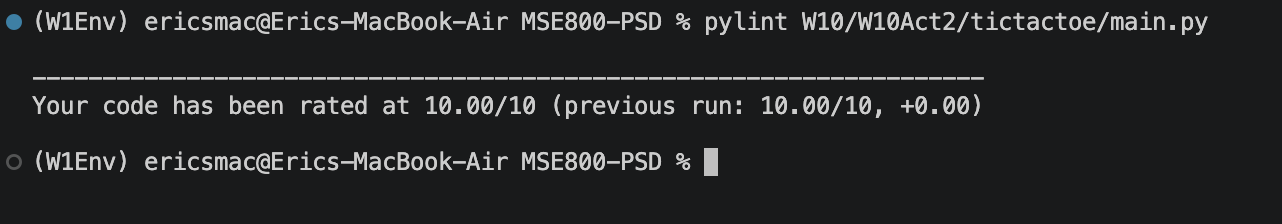
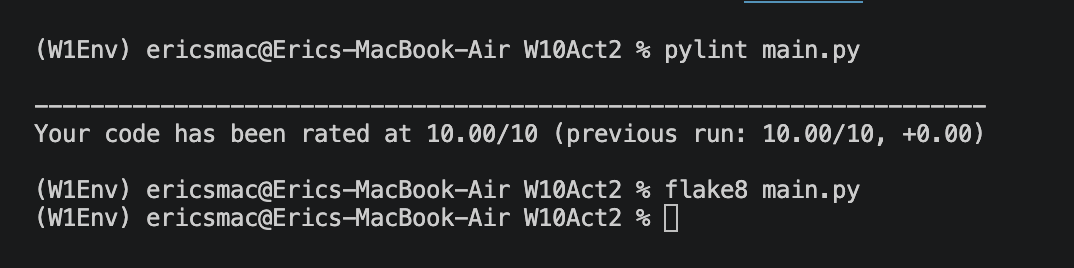
readme upgraded

Changed region(s): [[0.0, 0.0, 0.9525, 0.25], [0.0, 0.3438, 0.9218, 0.5312], [0.0, 0.6562, 0.7989, 0.875]]

diff --git a/W10/W10Act2/README.md b/W10/W10Act2/README.md
@@ -80,11 +80,11 @@ interface/strategy classes.
 
 `flake8` reports no violations, and `pylint` rates the module `10.00/10`.
 
-### pylint score
+### flake8 & pylint score
 
 ![pylint 10.00/10](pylint.png)
 
-## Sample Outputs
+## Sample Output
 
 
-![pylint 10.00/10](image.png)
+![Output](Output.png)